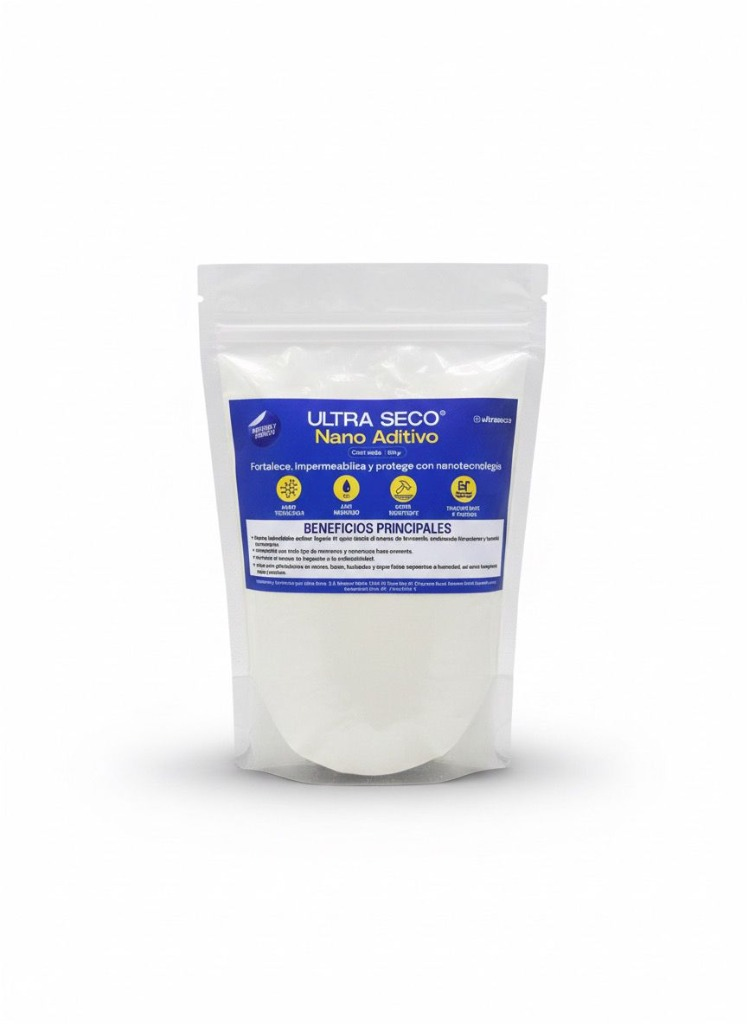
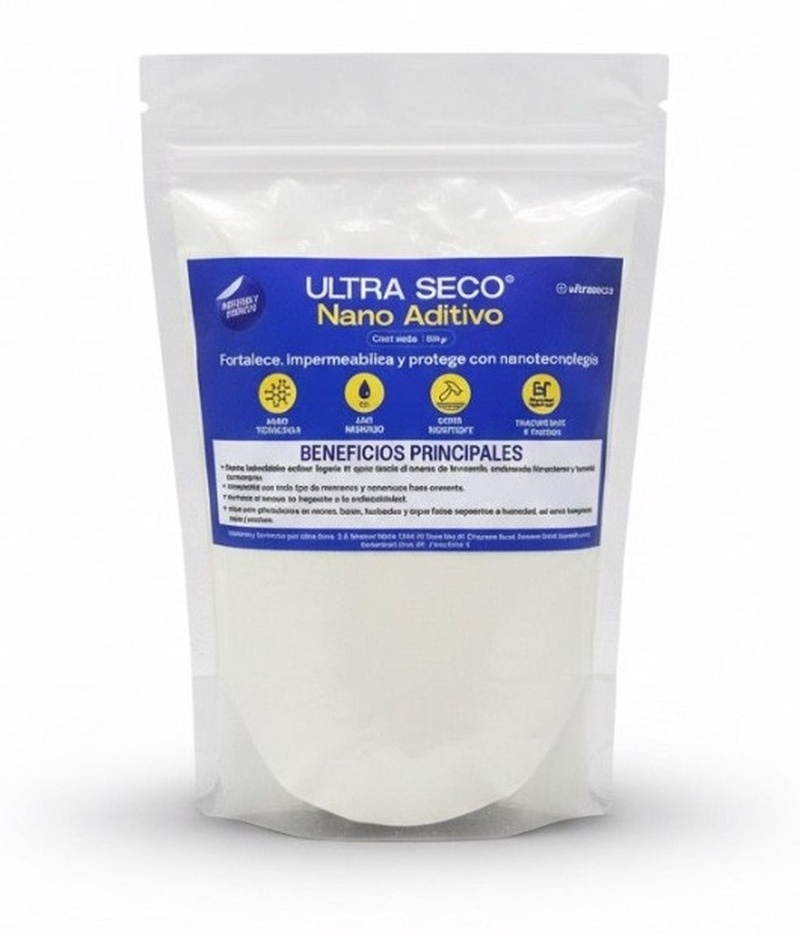
act imagen nano aditivo

diff --git a/empresa/pagina_catalogo/index.html b/empresa/pagina_catalogo/index.html
@@ -1450,7 +1450,7 @@ button, select, input {
 
           <article class="product-item" id="prod-nanoshield" data-product-id="nanoshield">
             <div class="product-image-wrap">
-              <img src="../images/aditivo.png" alt="Nanoshield (Nano Aditivo para Concreto)" class="product-bottle-img" loading="lazy" onerror="if(!this.dataset.f){this.dataset.f=1;this.src='empresa/images/aditivo.png';}else{this.onerror=null;this.src='../images/logo.png';}" />
+              <img src="../images/nano-aditivo.jpg" alt="Nanoshield (Nano Aditivo para Concreto)" class="product-bottle-img" loading="lazy" onerror="if(!this.dataset.f){this.dataset.f=1;this.src='empresa/images/nano-aditivo.jpg';}else{this.onerror=null;this.src='../images/logo.png';}" />
             </div>
             <div class="product-category-chip">Construcción</div>
             <h3 class="product-name">Nanoshield (Nano Aditivo para Concreto)</h3>
@@ -1826,7 +1826,7 @@ button, select, input {
   <script>
     (function () {
       var BASE_PATH = "../";
-      var PRODUCTS = [{"id":"estuco","name":"Estuco Súper Hidrofóbico","category":"Construcción","description":"Pasta bloqueadora de humedad ascendente y salitre para frisados.","image":"images/estuco.jpg","detailUrl":"estuco.html","presentations":[{"label":"1/4 de galón","price":6.4,"sku":"ESTUCO-1/4"},{"label":"1 galón","price":19,"sku":"ESTUCO-GAL"},{"label":"Cuñete (4 galones)","price":100,"sku":"ESTUCO-CUN"}],"taxRate":0.16},{"id":"solucion-interior","name":"Solución Interior","category":"Construcción","description":"Nanotecnología hidrofóbica invisible para paredes y techos interiores.","image":"images/interiores.jpg","detailUrl":"interiores.html","presentations":[{"label":"1 Litro","price":13.99,"sku":"US-INT-1L"},{"label":"1 Litro (Atomizador)","price":14.99,"sku":"US-INT-1L-ATOM"},{"label":"1 galón (3.785L)","price":38,"sku":"US-INT-GAL"},{"label":"Cuñete (18L)","price":170,"sku":"US-INT-CUN"}],"taxRate":0.16},{"id":"solucion-exterior","name":"Solución Exterior","category":"Construcción","description":"Blindaje invisible para fachadas, muros y piedras con máxima resistencia UV.","image":"images/exteriores.jpg","detailUrl":"exteriores.html","presentations":[{"label":"1 Litro","price":16.99,"sku":"US-EXT-1L"},{"label":"1 Litro (Atomizador)","price":17.99,"sku":"US-EXT-1L-ATOM"},{"label":"1 galón (3.785L)","price":48,"sku":"US-EXT-GAL"},{"label":"Cuñete (18L)","price":217.5,"sku":"US-EXT-CUN"}],"taxRate":0.16},{"id":"fortificador","name":"Fortificador de Superficies","category":"Construcción","description":"Consolidante nanotecnológico para concreto y pisos arenosos deleznables.","image":"images/fortificador.jpg","detailUrl":"fortificador.html","presentations":[{"label":"1 Litro","price":19,"sku":"US-FORT-1L"},{"label":"1 galón","price":52,"sku":"US-FORT-GAL"},{"label":"Cuñete","price":254.5,"sku":"US-FORT-CUN"}],"taxRate":0.16},{"id":"pintura","name":"Pintura Súper Hidrofóbica","category":"Construcción","description":"Pintura elastomérica impermeable con nanotecnología autolimpiable.","image":"images/pintura.jpg","detailUrl":"pintura.html","presentations":[{"label":"1 galón","price":34,"sku":"PINT-GAL"}],"taxRate":0.16},{"id":"nanoshield","name":"Nanoshield (Nano Aditivo para Concreto)","category":"Construcción","description":"Impermeabilización integral para mezclas de concreto y morteros desde el fraguado.","image":"images/aditivo.png","detailUrl":"nano-aditivo.html","presentations":[{"label":"600 gramos","price":15,"sku":"NANO-ADIT-600G"},{"label":"500 gramos","price":22,"sku":"NANO-ADIT-500G"}],"taxRate":0.16},{"id":"nano-cera-protectora","name":"Nano Cera Protectora","category":"Hogar & Vehicular","description":"Cera hidrofóbica y sellador protector para acabados brillantes y cristales.","image":"images/cera.jpg","detailUrl":"cera.html","presentations":[{"label":"500 ml","price":15,"sku":"CERA-500ML"},{"label":"1 Litro","price":13,"sku":"CERA-1L"}],"taxRate":0.16},{"id":"escudo-ceramico","name":"Escudo Cerámico","category":"Hogar","description":"Revestimiento cerámico ultrabrillante y antisarro para vidrios y porcelanato.","image":"images/escudo.jpg","detailUrl":"escudo.html","presentations":[{"label":"1 Litro","price":45,"sku":"ESCUDO-1L"}],"taxRate":0.16},{"id":"concentrado-espuma-f3","name":"Concentrado Espuma F3","category":"Soluciones Contra el Fuego","description":"Espuma extintora biodegradable libre de flúor (Fluorine-Free) para fuegos clase A y B.","image":"images/ultra-f3.jpg","detailUrl":"f3.html","presentations":[{"label":"Cuñete (18L)","price":450,"sku":"F3-CONC-CUN"},{"label":"Tambor (200L)","price":4800,"sku":"F3-CONC-TAM"}],"taxRate":0.16},{"id":"extintor-f3","name":"Extintor F3","category":"Soluciones Contra el Fuego","description":"Extintor portátil de última generación equipado con tecnología Ultra F3 biodegradable.","image":"images/extintor_f3.png","detailUrl":"extintores-f3.html","presentations":[{"label":"Portátil 10 Lb (4 Lts)","price":null,"pendingNote":"Cotizar con asesor","sku":"EXT-F3-10LB"},{"label":"Portátil 20 Lb (8 Lts)","price":null,"pendingNote":"Cotizar con asesor","sku":"EXT-F3-20LB"}],"taxRate":0.16,"isQuoteOnly":true},{"id":"solucion-extintores-f3","name":"Solución para Extintores F3","category":"Soluciones Contra el Fuego","description":"Agente extintor listo para carga y recarga de extintores portátiles y rodantes.","image":"images/ultra-f3-ar.jpg","detailUrl":"f3.html","presentations":[{"label":"Cuñete (18L)","price":450,"sku":"F3-RECARGA-CUN"},{"label":"Tambor (200L)","price":4800,"sku":"F3-RECARGA-TAM"}],"taxRate":0.16},{"id":"shampoo-nano-concentrado","name":"Shampoo Nano Concentrado","category":"Cuidado Vehicular","description":"Lavado activo que encapsula la suciedad con efecto cera hidrofóbica instantáneo.","image":"images/champu.png","detailUrl":"champu.html","presentations":[{"label":"1 Litro","price":12,"sku":"CHAMPU-1L"},{"label":"1 galón","price":35,"sku":"CHAMPU-GAL"}],"taxRate":0.16}];
+      var PRODUCTS = [{"id":"estuco","name":"Estuco Súper Hidrofóbico","category":"Construcción","description":"Pasta bloqueadora de humedad ascendente y salitre para frisados.","image":"images/estuco.jpg","detailUrl":"estuco.html","presentations":[{"label":"1/4 de galón","price":6.4,"sku":"ESTUCO-1/4"},{"label":"1 galón","price":19,"sku":"ESTUCO-GAL"},{"label":"Cuñete (4 galones)","price":100,"sku":"ESTUCO-CUN"}],"taxRate":0.16},{"id":"solucion-interior","name":"Solución Interior","category":"Construcción","description":"Nanotecnología hidrofóbica invisible para paredes y techos interiores.","image":"images/interiores.jpg","detailUrl":"interiores.html","presentations":[{"label":"1 Litro","price":13.99,"sku":"US-INT-1L"},{"label":"1 Litro (Atomizador)","price":14.99,"sku":"US-INT-1L-ATOM"},{"label":"1 galón (3.785L)","price":38,"sku":"US-INT-GAL"},{"label":"Cuñete (18L)","price":170,"sku":"US-INT-CUN"}],"taxRate":0.16},{"id":"solucion-exterior","name":"Solución Exterior","category":"Construcción","description":"Blindaje invisible para fachadas, muros y piedras con máxima resistencia UV.","image":"images/exteriores.jpg","detailUrl":"exteriores.html","presentations":[{"label":"1 Litro","price":16.99,"sku":"US-EXT-1L"},{"label":"1 Litro (Atomizador)","price":17.99,"sku":"US-EXT-1L-ATOM"},{"label":"1 galón (3.785L)","price":48,"sku":"US-EXT-GAL"},{"label":"Cuñete (18L)","price":217.5,"sku":"US-EXT-CUN"}],"taxRate":0.16},{"id":"fortificador","name":"Fortificador de Superficies","category":"Construcción","description":"Consolidante nanotecnológico para concreto y pisos arenosos deleznables.","image":"images/fortificador.jpg","detailUrl":"fortificador.html","presentations":[{"label":"1 Litro","price":19,"sku":"US-FORT-1L"},{"label":"1 galón","price":52,"sku":"US-FORT-GAL"},{"label":"Cuñete","price":254.5,"sku":"US-FORT-CUN"}],"taxRate":0.16},{"id":"pintura","name":"Pintura Súper Hidrofóbica","category":"Construcción","description":"Pintura elastomérica impermeable con nanotecnología autolimpiable.","image":"images/pintura.jpg","detailUrl":"pintura.html","presentations":[{"label":"1 galón","price":34,"sku":"PINT-GAL"}],"taxRate":0.16},{"id":"nanoshield","name":"Nanoshield (Nano Aditivo para Concreto)","category":"Construcción","description":"Impermeabilización integral para mezclas de concreto y morteros desde el fraguado.","image":"images/nano-aditivo.jpg","detailUrl":"nano-aditivo.html","presentations":[{"label":"600 gramos","price":15,"sku":"NANO-ADIT-600G"},{"label":"500 gramos","price":22,"sku":"NANO-ADIT-500G"}],"taxRate":0.16},{"id":"nano-cera-protectora","name":"Nano Cera Protectora","category":"Hogar & Vehicular","description":"Cera hidrofóbica y sellador protector para acabados brillantes y cristales.","image":"images/cera.jpg","detailUrl":"cera.html","presentations":[{"label":"500 ml","price":15,"sku":"CERA-500ML"},{"label":"1 Litro","price":13,"sku":"CERA-1L"}],"taxRate":0.16},{"id":"escudo-ceramico","name":"Escudo Cerámico","category":"Hogar","description":"Revestimiento cerámico ultrabrillante y antisarro para vidrios y porcelanato.","image":"images/escudo.jpg","detailUrl":"escudo.html","presentations":[{"label":"1 Litro","price":45,"sku":"ESCUDO-1L"}],"taxRate":0.16},{"id":"concentrado-espuma-f3","name":"Concentrado Espuma F3","category":"Soluciones Contra el Fuego","description":"Espuma extintora biodegradable libre de flúor (Fluorine-Free) para fuegos clase A y B.","image":"images/ultra-f3.jpg","detailUrl":"f3.html","presentations":[{"label":"Cuñete (18L)","price":450,"sku":"F3-CONC-CUN"},{"label":"Tambor (200L)","price":4800,"sku":"F3-CONC-TAM"}],"taxRate":0.16},{"id":"extintor-f3","name":"Extintor F3","category":"Soluciones Contra el Fuego","description":"Extintor portátil de última generación equipado con tecnología Ultra F3 biodegradable.","image":"images/extintor_f3.png","detailUrl":"extintores-f3.html","presentations":[{"label":"Portátil 10 Lb (4 Lts)","price":null,"pendingNote":"Cotizar con asesor","sku":"EXT-F3-10LB"},{"label":"Portátil 20 Lb (8 Lts)","price":null,"pendingNote":"Cotizar con asesor","sku":"EXT-F3-20LB"}],"taxRate":0.16,"isQuoteOnly":true},{"id":"solucion-extintores-f3","name":"Solución para Extintores F3","category":"Soluciones Contra el Fuego","description":"Agente extintor listo para carga y recarga de extintores portátiles y rodantes.","image":"images/ultra-f3-ar.jpg","detailUrl":"f3.html","presentations":[{"label":"Cuñete (18L)","price":450,"sku":"F3-RECARGA-CUN"},{"label":"Tambor (200L)","price":4800,"sku":"F3-RECARGA-TAM"}],"taxRate":0.16},{"id":"shampoo-nano-concentrado","name":"Shampoo Nano Concentrado","category":"Cuidado Vehicular","description":"Lavado activo que encapsula la suciedad con efecto cera hidrofóbica instantáneo.","image":"images/champu.png","detailUrl":"champu.html","presentations":[{"label":"1 Litro","price":12,"sku":"CHAMPU-1L"},{"label":"1 galón","price":35,"sku":"CHAMPU-GAL"}],"taxRate":0.16}];
       var productMap = {};
       var state = {};
 

diff --git a/empresa/index.html b/empresa/index.html
@@ -1450,7 +1450,7 @@ button, select, input {
 
           <article class="product-item" id="prod-nanoshield" data-product-id="nanoshield">
             <div class="product-image-wrap">
-              <img src="images/aditivo.png" alt="Nanoshield (Nano Aditivo para Concreto)" class="product-bottle-img" loading="lazy" onerror="if(!this.dataset.f){this.dataset.f=1;this.src='empresa/images/aditivo.png';}else{this.onerror=null;this.src='images/logo.png';}" />
+              <img src="images/nano-aditivo.jpg" alt="Nanoshield (Nano Aditivo para Concreto)" class="product-bottle-img" loading="lazy" onerror="if(!this.dataset.f){this.dataset.f=1;this.src='empresa/images/nano-aditivo.jpg';}else{this.onerror=null;this.src='images/logo.png';}" />
             </div>
             <div class="product-category-chip">Construcción</div>
             <h3 class="product-name">Nanoshield (Nano Aditivo para Concreto)</h3>
@@ -1826,7 +1826,7 @@ button, select, input {
   <script>
     (function () {
       var BASE_PATH = "";
-      var PRODUCTS = [{"id":"estuco","name":"Estuco Súper Hidrofóbico","category":"Construcción","description":"Pasta bloqueadora de humedad ascendente y salitre para frisados.","image":"images/estuco.jpg","detailUrl":"estuco.html","presentations":[{"label":"1/4 de galón","price":6.4,"sku":"ESTUCO-1/4"},{"label":"1 galón","price":19,"sku":"ESTUCO-GAL"},{"label":"Cuñete (4 galones)","price":100,"sku":"ESTUCO-CUN"}],"taxRate":0.16},{"id":"solucion-interior","name":"Solución Interior","category":"Construcción","description":"Nanotecnología hidrofóbica invisible para paredes y techos interiores.","image":"images/interiores.jpg","detailUrl":"interiores.html","presentations":[{"label":"1 Litro","price":13.99,"sku":"US-INT-1L"},{"label":"1 Litro (Atomizador)","price":14.99,"sku":"US-INT-1L-ATOM"},{"label":"1 galón (3.785L)","price":38,"sku":"US-INT-GAL"},{"label":"Cuñete (18L)","price":170,"sku":"US-INT-CUN"}],"taxRate":0.16},{"id":"solucion-exterior","name":"Solución Exterior","category":"Construcción","description":"Blindaje invisible para fachadas, muros y piedras con máxima resistencia UV.","image":"images/exteriores.jpg","detailUrl":"exteriores.html","presentations":[{"label":"1 Litro","price":16.99,"sku":"US-EXT-1L"},{"label":"1 Litro (Atomizador)","price":17.99,"sku":"US-EXT-1L-ATOM"},{"label":"1 galón (3.785L)","price":48,"sku":"US-EXT-GAL"},{"label":"Cuñete (18L)","price":217.5,"sku":"US-EXT-CUN"}],"taxRate":0.16},{"id":"fortificador","name":"Fortificador de Superficies","category":"Construcción","description":"Consolidante nanotecnológico para concreto y pisos arenosos deleznables.","image":"images/fortificador.jpg","detailUrl":"fortificador.html","presentations":[{"label":"1 Litro","price":19,"sku":"US-FORT-1L"},{"label":"1 galón","price":52,"sku":"US-FORT-GAL"},{"label":"Cuñete","price":254.5,"sku":"US-FORT-CUN"}],"taxRate":0.16},{"id":"pintura","name":"Pintura Súper Hidrofóbica","category":"Construcción","description":"Pintura elastomérica impermeable con nanotecnología autolimpiable.","image":"images/pintura.jpg","detailUrl":"pintura.html","presentations":[{"label":"1 galón","price":34,"sku":"PINT-GAL"}],"taxRate":0.16},{"id":"nanoshield","name":"Nanoshield (Nano Aditivo para Concreto)","category":"Construcción","description":"Impermeabilización integral para mezclas de concreto y morteros desde el fraguado.","image":"images/aditivo.png","detailUrl":"nano-aditivo.html","presentations":[{"label":"600 gramos","price":15,"sku":"NANO-ADIT-600G"},{"label":"500 gramos","price":22,"sku":"NANO-ADIT-500G"}],"taxRate":0.16},{"id":"nano-cera-protectora","name":"Nano Cera Protectora","category":"Hogar & Vehicular","description":"Cera hidrofóbica y sellador protector para acabados brillantes y cristales.","image":"images/cera.jpg","detailUrl":"cera.html","presentations":[{"label":"500 ml","price":15,"sku":"CERA-500ML"},{"label":"1 Litro","price":13,"sku":"CERA-1L"}],"taxRate":0.16},{"id":"escudo-ceramico","name":"Escudo Cerámico","category":"Hogar","description":"Revestimiento cerámico ultrabrillante y antisarro para vidrios y porcelanato.","image":"images/escudo.jpg","detailUrl":"escudo.html","presentations":[{"label":"1 Litro","price":45,"sku":"ESCUDO-1L"}],"taxRate":0.16},{"id":"concentrado-espuma-f3","name":"Concentrado Espuma F3","category":"Soluciones Contra el Fuego","description":"Espuma extintora biodegradable libre de flúor (Fluorine-Free) para fuegos clase A y B.","image":"images/ultra-f3.jpg","detailUrl":"f3.html","presentations":[{"label":"Cuñete (18L)","price":450,"sku":"F3-CONC-CUN"},{"label":"Tambor (200L)","price":4800,"sku":"F3-CONC-TAM"}],"taxRate":0.16},{"id":"extintor-f3","name":"Extintor F3","category":"Soluciones Contra el Fuego","description":"Extintor portátil de última generación equipado con tecnología Ultra F3 biodegradable.","image":"images/extintor_f3.png","detailUrl":"extintores-f3.html","presentations":[{"label":"Portátil 10 Lb (4 Lts)","price":null,"pendingNote":"Cotizar con asesor","sku":"EXT-F3-10LB"},{"label":"Portátil 20 Lb (8 Lts)","price":null,"pendingNote":"Cotizar con asesor","sku":"EXT-F3-20LB"}],"taxRate":0.16,"isQuoteOnly":true},{"id":"solucion-extintores-f3","name":"Solución para Extintores F3","category":"Soluciones Contra el Fuego","description":"Agente extintor listo para carga y recarga de extintores portátiles y rodantes.","image":"images/ultra-f3-ar.jpg","detailUrl":"f3.html","presentations":[{"label":"Cuñete (18L)","price":450,"sku":"F3-RECARGA-CUN"},{"label":"Tambor (200L)","price":4800,"sku":"F3-RECARGA-TAM"}],"taxRate":0.16},{"id":"shampoo-nano-concentrado","name":"Shampoo Nano Concentrado","category":"Cuidado Vehicular","description":"Lavado activo que encapsula la suciedad con efecto cera hidrofóbica instantáneo.","image":"images/champu.png","detailUrl":"champu.html","presentations":[{"label":"1 Litro","price":12,"sku":"CHAMPU-1L"},{"label":"1 galón","price":35,"sku":"CHAMPU-GAL"}],"taxRate":0.16}];
+      var PRODUCTS = [{"id":"estuco","name":"Estuco Súper Hidrofóbico","category":"Construcción","description":"Pasta bloqueadora de humedad ascendente y salitre para frisados.","image":"images/estuco.jpg","detailUrl":"estuco.html","presentations":[{"label":"1/4 de galón","price":6.4,"sku":"ESTUCO-1/4"},{"label":"1 galón","price":19,"sku":"ESTUCO-GAL"},{"label":"Cuñete (4 galones)","price":100,"sku":"ESTUCO-CUN"}],"taxRate":0.16},{"id":"solucion-interior","name":"Solución Interior","category":"Construcción","description":"Nanotecnología hidrofóbica invisible para paredes y techos interiores.","image":"images/interiores.jpg","detailUrl":"interiores.html","presentations":[{"label":"1 Litro","price":13.99,"sku":"US-INT-1L"},{"label":"1 Litro (Atomizador)","price":14.99,"sku":"US-INT-1L-ATOM"},{"label":"1 galón (3.785L)","price":38,"sku":"US-INT-GAL"},{"label":"Cuñete (18L)","price":170,"sku":"US-INT-CUN"}],"taxRate":0.16},{"id":"solucion-exterior","name":"Solución Exterior","category":"Construcción","description":"Blindaje invisible para fachadas, muros y piedras con máxima resistencia UV.","image":"images/exteriores.jpg","detailUrl":"exteriores.html","presentations":[{"label":"1 Litro","price":16.99,"sku":"US-EXT-1L"},{"label":"1 Litro (Atomizador)","price":17.99,"sku":"US-EXT-1L-ATOM"},{"label":"1 galón (3.785L)","price":48,"sku":"US-EXT-GAL"},{"label":"Cuñete (18L)","price":217.5,"sku":"US-EXT-CUN"}],"taxRate":0.16},{"id":"fortificador","name":"Fortificador de Superficies","category":"Construcción","description":"Consolidante nanotecnológico para concreto y pisos arenosos deleznables.","image":"images/fortificador.jpg","detailUrl":"fortificador.html","presentations":[{"label":"1 Litro","price":19,"sku":"US-FORT-1L"},{"label":"1 galón","price":52,"sku":"US-FORT-GAL"},{"label":"Cuñete","price":254.5,"sku":"US-FORT-CUN"}],"taxRate":0.16},{"id":"pintura","name":"Pintura Súper Hidrofóbica","category":"Construcción","description":"Pintura elastomérica impermeable con nanotecnología autolimpiable.","image":"images/pintura.jpg","detailUrl":"pintura.html","presentations":[{"label":"1 galón","price":34,"sku":"PINT-GAL"}],"taxRate":0.16},{"id":"nanoshield","name":"Nanoshield (Nano Aditivo para Concreto)","category":"Construcción","description":"Impermeabilización integral para mezclas de concreto y morteros desde el fraguado.","image":"images/nano-aditivo.jpg","detailUrl":"nano-aditivo.html","presentations":[{"label":"600 gramos","price":15,"sku":"NANO-ADIT-600G"},{"label":"500 gramos","price":22,"sku":"NANO-ADIT-500G"}],"taxRate":0.16},{"id":"nano-cera-protectora","name":"Nano Cera Protectora","category":"Hogar & Vehicular","description":"Cera hidrofóbica y sellador protector para acabados brillantes y cristales.","image":"images/cera.jpg","detailUrl":"cera.html","presentations":[{"label":"500 ml","price":15,"sku":"CERA-500ML"},{"label":"1 Litro","price":13,"sku":"CERA-1L"}],"taxRate":0.16},{"id":"escudo-ceramico","name":"Escudo Cerámico","category":"Hogar","description":"Revestimiento cerámico ultrabrillante y antisarro para vidrios y porcelanato.","image":"images/escudo.jpg","detailUrl":"escudo.html","presentations":[{"label":"1 Litro","price":45,"sku":"ESCUDO-1L"}],"taxRate":0.16},{"id":"concentrado-espuma-f3","name":"Concentrado Espuma F3","category":"Soluciones Contra el Fuego","description":"Espuma extintora biodegradable libre de flúor (Fluorine-Free) para fuegos clase A y B.","image":"images/ultra-f3.jpg","detailUrl":"f3.html","presentations":[{"label":"Cuñete (18L)","price":450,"sku":"F3-CONC-CUN"},{"label":"Tambor (200L)","price":4800,"sku":"F3-CONC-TAM"}],"taxRate":0.16},{"id":"extintor-f3","name":"Extintor F3","category":"Soluciones Contra el Fuego","description":"Extintor portátil de última generación equipado con tecnología Ultra F3 biodegradable.","image":"images/extintor_f3.png","detailUrl":"extintores-f3.html","presentations":[{"label":"Portátil 10 Lb (4 Lts)","price":null,"pendingNote":"Cotizar con asesor","sku":"EXT-F3-10LB"},{"label":"Portátil 20 Lb (8 Lts)","price":null,"pendingNote":"Cotizar con asesor","sku":"EXT-F3-20LB"}],"taxRate":0.16,"isQuoteOnly":true},{"id":"solucion-extintores-f3","name":"Solución para Extintores F3","category":"Soluciones Contra el Fuego","description":"Agente extintor listo para carga y recarga de extintores portátiles y rodantes.","image":"images/ultra-f3-ar.jpg","detailUrl":"f3.html","presentations":[{"label":"Cuñete (18L)","price":450,"sku":"F3-RECARGA-CUN"},{"label":"Tambor (200L)","price":4800,"sku":"F3-RECARGA-TAM"}],"taxRate":0.16},{"id":"shampoo-nano-concentrado","name":"Shampoo Nano Concentrado","category":"Cuidado Vehicular","description":"Lavado activo que encapsula la suciedad con efecto cera hidrofóbica instantáneo.","image":"images/champu.png","detailUrl":"champu.html","presentations":[{"label":"1 Litro","price":12,"sku":"CHAMPU-1L"},{"label":"1 galón","price":35,"sku":"CHAMPU-GAL"}],"taxRate":0.16}];
       var productMap = {};
       var state = {};
 

diff --git a/empresa/pagina_catalogo/products-data.js b/empresa/pagina_catalogo/products-data.js
@@ -89,7 +89,7 @@
       name: 'Nanoshield (Nano Aditivo para Concreto)',
       category: 'Construcción',
       description: 'Impermeabilización integral para mezclas de concreto y morteros desde el fraguado.',
-      image: `${BASE_PATH}images/aditivo.png`,
+      image: `${BASE_PATH}images/nano-aditivo.jpg`,
       detailUrl: `${BASE_PATH}nano-aditivo.html`,
       presentations: [
         { label: '600 gramos', price: 15.00, sku: 'NANO-ADIT-600G' },

diff --git a/empresa/products-data.js b/empresa/products-data.js
@@ -89,7 +89,7 @@
       name: 'Nanoshield (Nano Aditivo para Concreto)',
       category: 'Construcción',
       description: 'Impermeabilización integral para mezclas de concreto y morteros desde el fraguado.',
-      image: `${BASE_PATH}images/aditivo.png`,
+      image: `${BASE_PATH}images/nano-aditivo.jpg`,
       detailUrl: `${BASE_PATH}nano-aditivo.html`,
       presentations: [
         { label: '600 gramos', price: 15.00, sku: 'NANO-ADIT-600G' },
